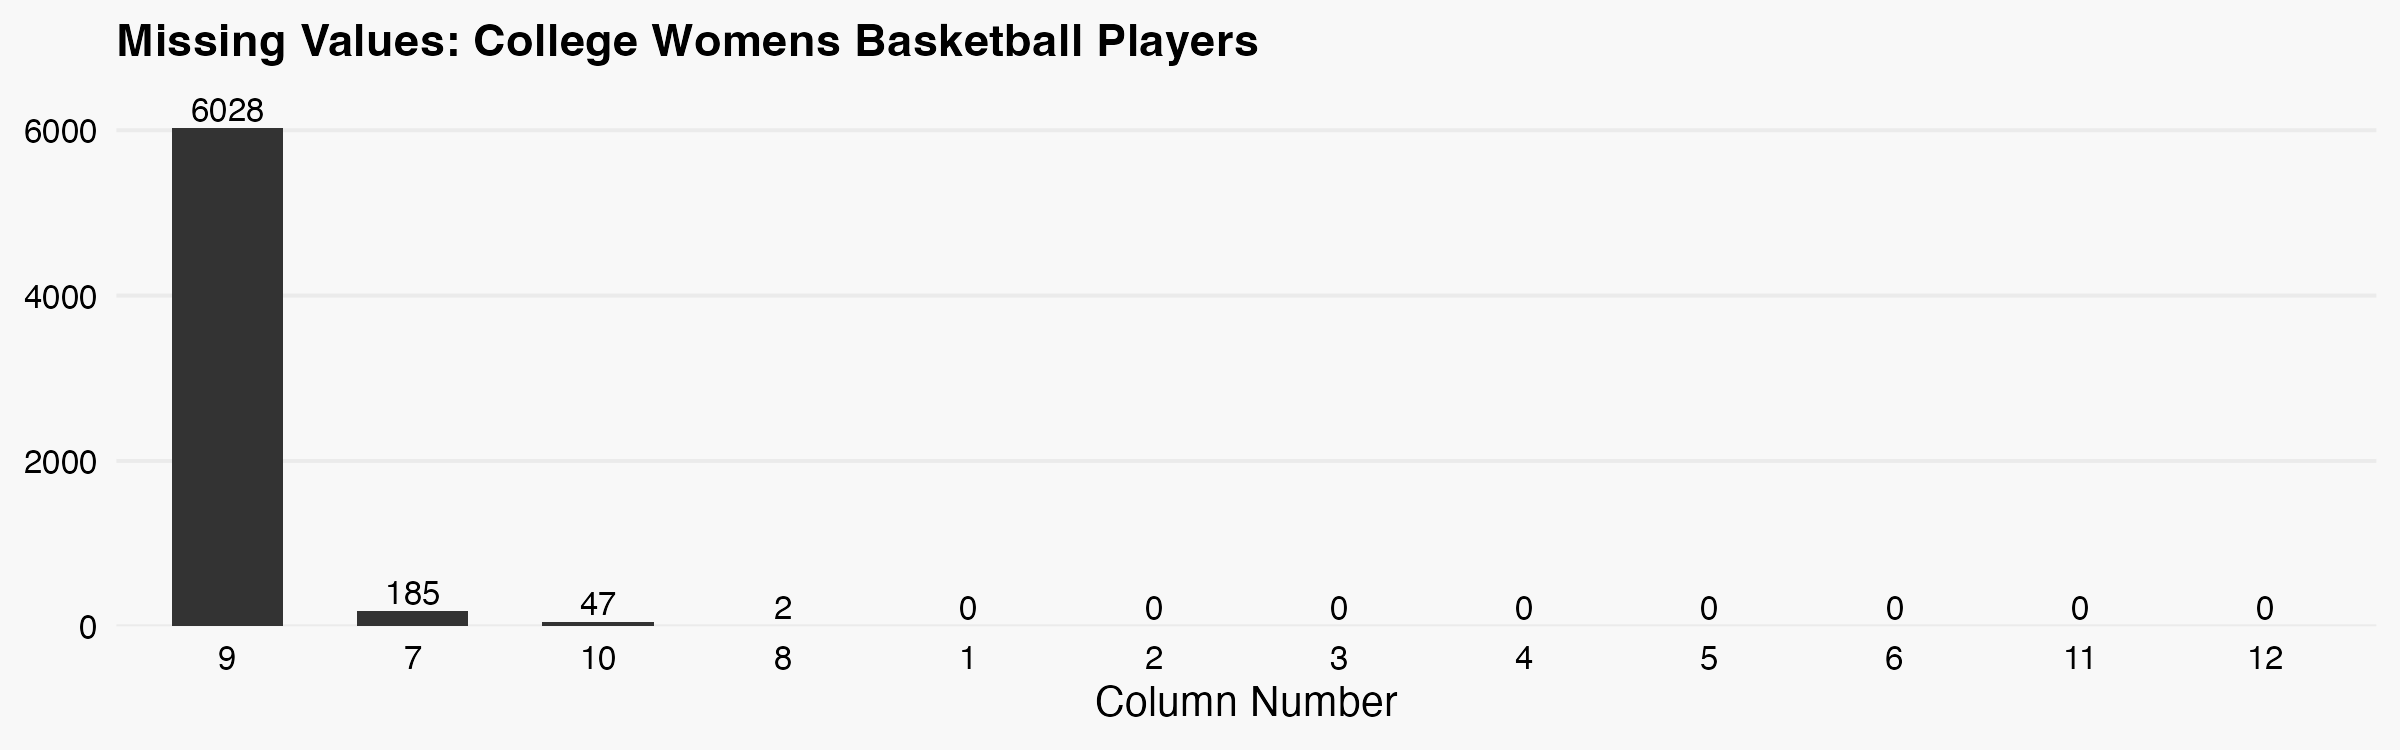
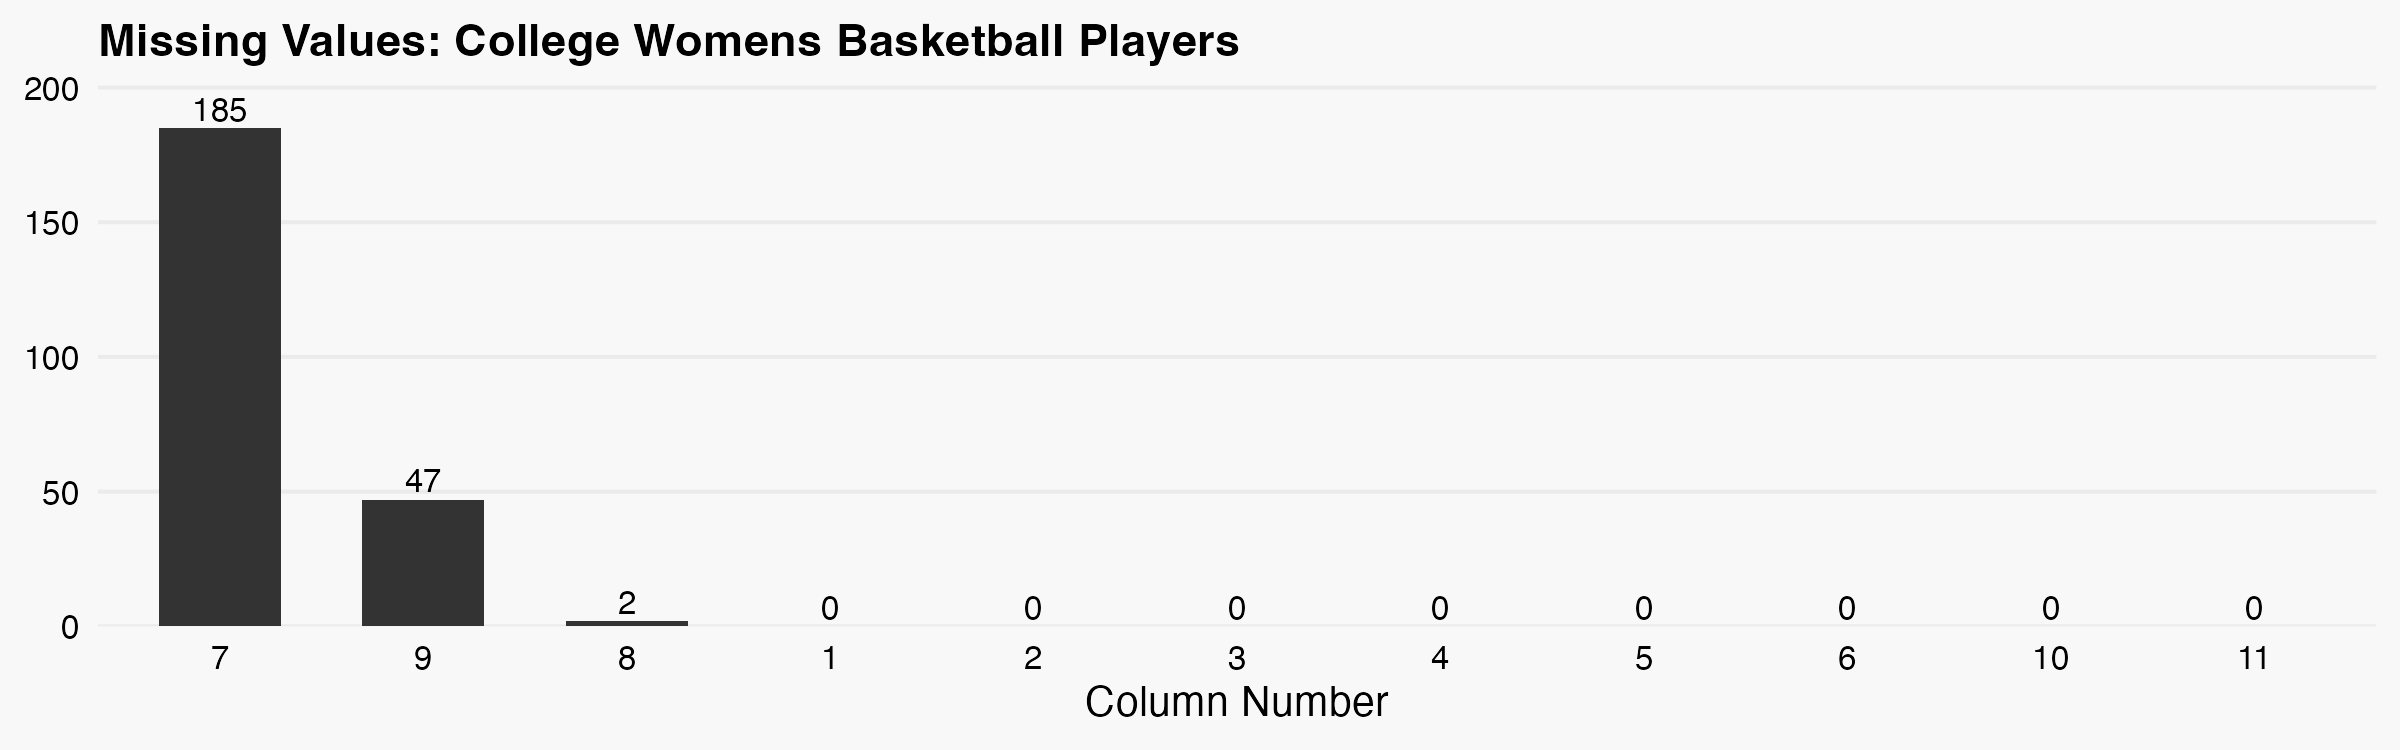
removed college basketball weight

diff --git a/R/players/readme.md b/R/players/readme.md
@@ -178,10 +178,9 @@
 | 6 | short_name | string | shortand version of the players name |
 | 7 | headshot | string | url to players headshot |
 | 8 | jersey | int | jersey number for player |
-| 9 | weight | int | weight of player |
-| 10 | height | int | height of player |
-| 11 | position | string | position abv of player |
-| 12 | team_espn_id | int | id used be espn to identify players team |
+| 9 | height | int | height of player |
+| 10 | position | string | position abv of player |
+| 11 | team_espn_id | int | id used be espn to identify players team |
 
 | Sources |
 |--------|
@@ -209,10 +208,9 @@
 | 6 | short_name | string | shortand version of the players name |
 | 7 | headshot | string | url to players headshot |
 | 8 | jersey | int | jersey number for player |
-| 9 | weight | int | weight of player |
-| 10 | height | int | height of player |
-| 11 | position | string | position abv of player |
-| 12 | team_espn_id | int | id used be espn to identify players team |
+| 9 | height | int | height of player |
+| 10 | position | string | position abv of player |
+| 11 | team_espn_id | int | id used be espn to identify players team |
 
 | Sources |
 |--------|
